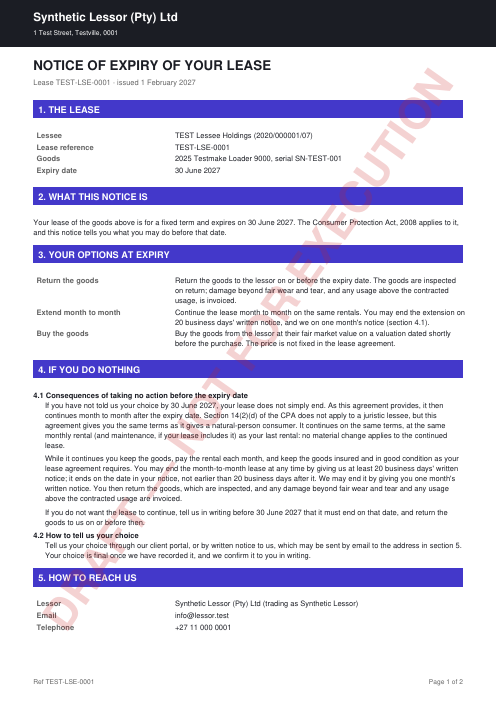
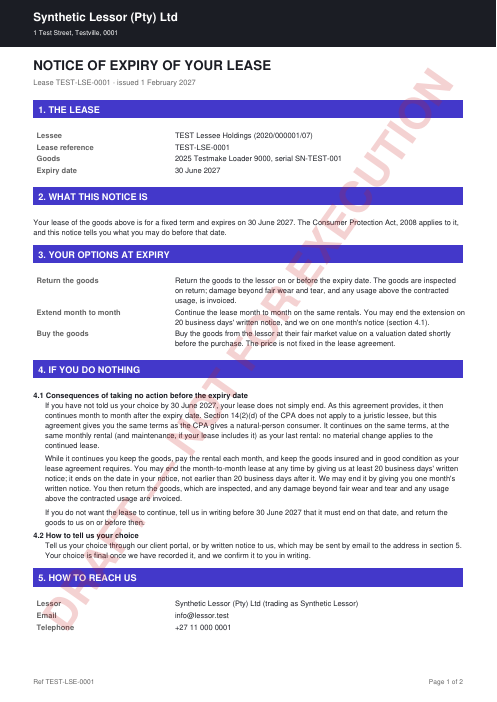
fix(af-docs): s14 note says what the CPA gives, and the lessor's right
The juristic-lessee note now reads "... gives you/the lessee the same terms
as the CPA gives a natural-person consumer"; at 9.11 it gives "the lessor
the same right of cancellation as section 14(2)(b)(ii) gives a supplier".
Tests pin both; CPA expiry notice and quote samples re-rendered.

Changed region(s): [[0.3018, 0.5983, 0.9054, 0.6282], [0.0905, 0.5983, 0.2716, 0.6581]]

diff --git a/lib/asset-finance/documents/lease/lease-servicing-documents.test.ts b/lib/asset-finance/documents/lease/lease-servicing-documents.test.ts
@@ -55,7 +55,7 @@ describe("CPA expiry notice", () => {
     expect(clauses.map((c) => c.heading)).toEqual(["Consequences of taking no action before the expiry date", "How to tell us your choice"])
     const text = await expectClauses(await renderLeaseExpiryNotice(NOTICE, LENDER), 4, clauses)
     expect(text).toContain("If you have not told us your choice by 30 June 2027, your lease does not simply end. As this agreement provides, it then continues "
-      + "month to month after the expiry date. Section 14(2)(d) of the CPA does not apply to a juristic lessee, but this agreement gives you the same terms as it "
+      + "month to month after the expiry date. Section 14(2)(d) of the CPA does not apply to a juristic lessee, but this agreement gives you the same terms as the CPA "
       + "gives a natural-person consumer. It continues on the same terms")
     expect(text).toContain("You may end the month-to-month lease at any time by giving us at least 20 business days' written notice")
     expect(text).toContain("We may end it by giving you one month's written notice")
@@ -94,7 +94,7 @@ describe("early-termination quote", () => {
     expect(clauses.map((c) => c.heading)).toEqual(["Your cancellation", "The cancellation charge", "If you disagree with the charge"])
     const text = await expectClauses(await renderLeaseTerminationQuote(QUOTE, LENDER), 5, clauses)
     expect(text).toContain("You gave us notice on 23 February 2027 to cancel your lease, as this agreement allows on 20 business days' notice. Section "
-      + "14(2)(b)(i)(bb) of the CPA does not apply to a juristic lessee, but this agreement gives you the same terms as it gives a natural-person consumer. Your lease")
+      + "14(2)(b)(i)(bb) of the CPA does not apply to a juristic lessee, but this agreement gives you the same terms as the CPA gives a natural-person consumer. Your lease")
     expect(text).toContain("the lessor may charge only a reasonable cancellation penalty, as this agreement provides. This quote states that charge.")
     expect(text).not.toMatch(/on the terms section 14/)
     expect(text).toContain("Your lease therefore ends on 15 March 2027, whether or not you accept or pay this quote. The 14 rentals that would fall due after that date are cancelled.")

diff --git a/lib/asset-finance/documents/wording/lease-agreement-end.ts b/lib/asset-finance/documents/wording/lease-agreement-end.ts
@@ -24,8 +24,8 @@ type Lessee = Pick<LeaseWordingInput, "naturalPerson">
 /** What a s14 term rests on: the statute for a natural-person lessee, this agreement for a juristic one (s14(1) excludes it). */
 export const s14Source = (i: Lessee, subsection: string): string => (i.naturalPerson ? `section 14(${subsection}) of the CPA` : "this agreement")
 /** For a juristic lessee, the sentence that says why the agreement gives the s14 term; nothing for a natural person. */
-export const s14Note = (i: Lessee, subsection: string, who: string): string => (i.naturalPerson ? ""
-  : ` Section 14(${subsection}) of the CPA does not apply to a juristic lessee, but this agreement gives ${who} the same terms as it gives a natural-person consumer.`)
+export const s14Note = (i: Lessee, subsection: string, who: string, what = "the same terms as the CPA gives a natural-person consumer"): string => (i.naturalPerson ? ""
+  : ` Section 14(${subsection}) of the CPA does not apply to a juristic lessee, but this agreement gives ${who} ${what}.`)
 
 function endOptions(i: LeaseWordingInput): string {
   const maintenance = i.fml ? " and maintenance" : ""
@@ -92,7 +92,7 @@ function breach(i: LeaseWordingInput): string {
   const events = i.cpa
     ? `If the lessee fails to pay any amount on its due date or materially breaches this agreement, the lessor may give the lessee written notice of the breach. If the lessee `
       + `has not remedied it within ${CPA_DAYS} of the notice, the lessor may cancel this agreement, as ${s14Source(i, "2)(b)(ii")} provides, or exercise its other remedies `
-      + `below.${s14Note(i, "2)(b)(ii", "the lessor")}`
+      + `below.${s14Note(i, "2)(b)(ii", "the lessor", "the same right of cancellation as section 14(2)(b)(ii) gives a supplier")}`
     : "The lessee is in default if it: fails to pay any amount on its due date; breaches any other term and does not remedy the breach within "
       + `${COMMERCIAL_REMEDY_DAYS} days of the lessor's written notice; is placed under provisional or final sequestration, liquidation or deregistration, commits an act of `
       + "insolvency, or offers a compromise to its creditors; allows a judgment against it to stay unsatisfied for 7 days; allows the goods to be attached; or gave materially "

diff --git a/lib/asset-finance/documents/lease/lease-documents.test.ts b/lib/asset-finance/documents/lease/lease-documents.test.ts
@@ -138,11 +138,12 @@ describe("lease agreements (C9)", () => {
     const text = await expectEveryClause(juristic, 17)
     // Whole sentences: the juristic form reads as English at every s14 site (9.9, 9.10, 9.11).
     expect(text).toContain("the lease continues month to month under (b), as this agreement provides, until it is ended as (b) provides. Section 14(2)(d) of "
-      + "the CPA does not apply to a juristic lessee, but this agreement gives the lessee the same terms as it gives a natural-person consumer.")
+      + "the CPA does not apply to a juristic lessee, but this agreement gives the lessee the same terms as the CPA gives a natural-person consumer.")
     expect(text).toContain("20 business days' written notice, as this agreement allows. Section 14(2)(b)(i)(bb) of the CPA does not apply to a juristic lessee, "
-      + "but this agreement gives the lessee the same terms as it gives a natural-person consumer. The cancellation takes effect")
+      + "but this agreement gives the lessee the same terms as the CPA gives a natural-person consumer. The cancellation takes effect")
     expect(text).toContain("the lessor may charge only a reasonable cancellation penalty, as this agreement provides.")
-    expect(text).toContain("the lessor may cancel this agreement, as this agreement provides, or exercise its other remedies below. Section 14(2)(b)(ii) of the CPA")
+    expect(text).toContain("the lessor may cancel this agreement, as this agreement provides, or exercise its other remedies below. Section 14(2)(b)(ii) of the CPA "
+      + "does not apply to a juristic lessee, but this agreement gives the lessor the same right of cancellation as section 14(2)(b)(ii) gives a supplier.")
     expect(text).not.toMatch(/on the terms section 14|this agreement, on the terms/)
     expect(text).toContain("Section 14 does not apply between juristic persons, but this agreement gives the lessee the same rights")
     expect(text).not.toMatch(/as section 14\(2\)\(d\) of the CPA provides|Its fixed-term rules \(section 14\) apply/)
